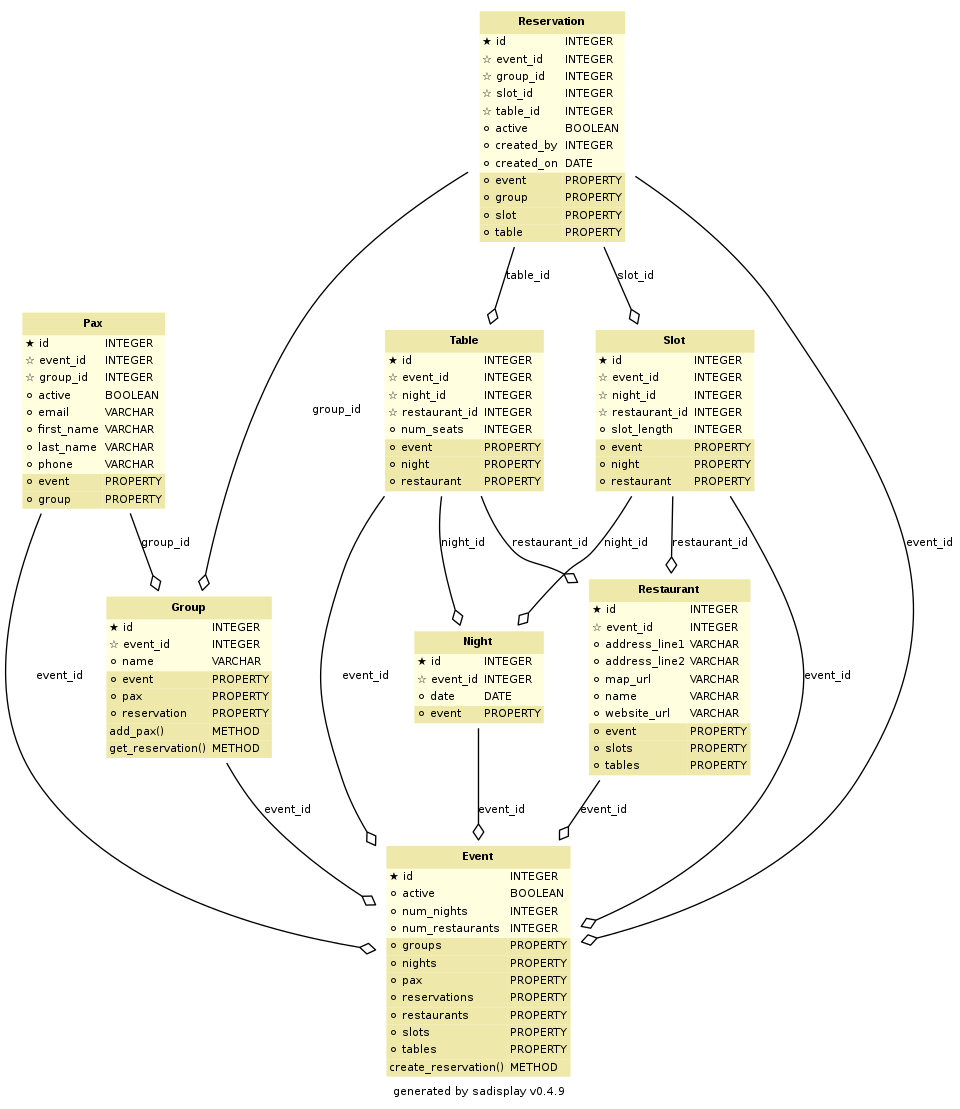
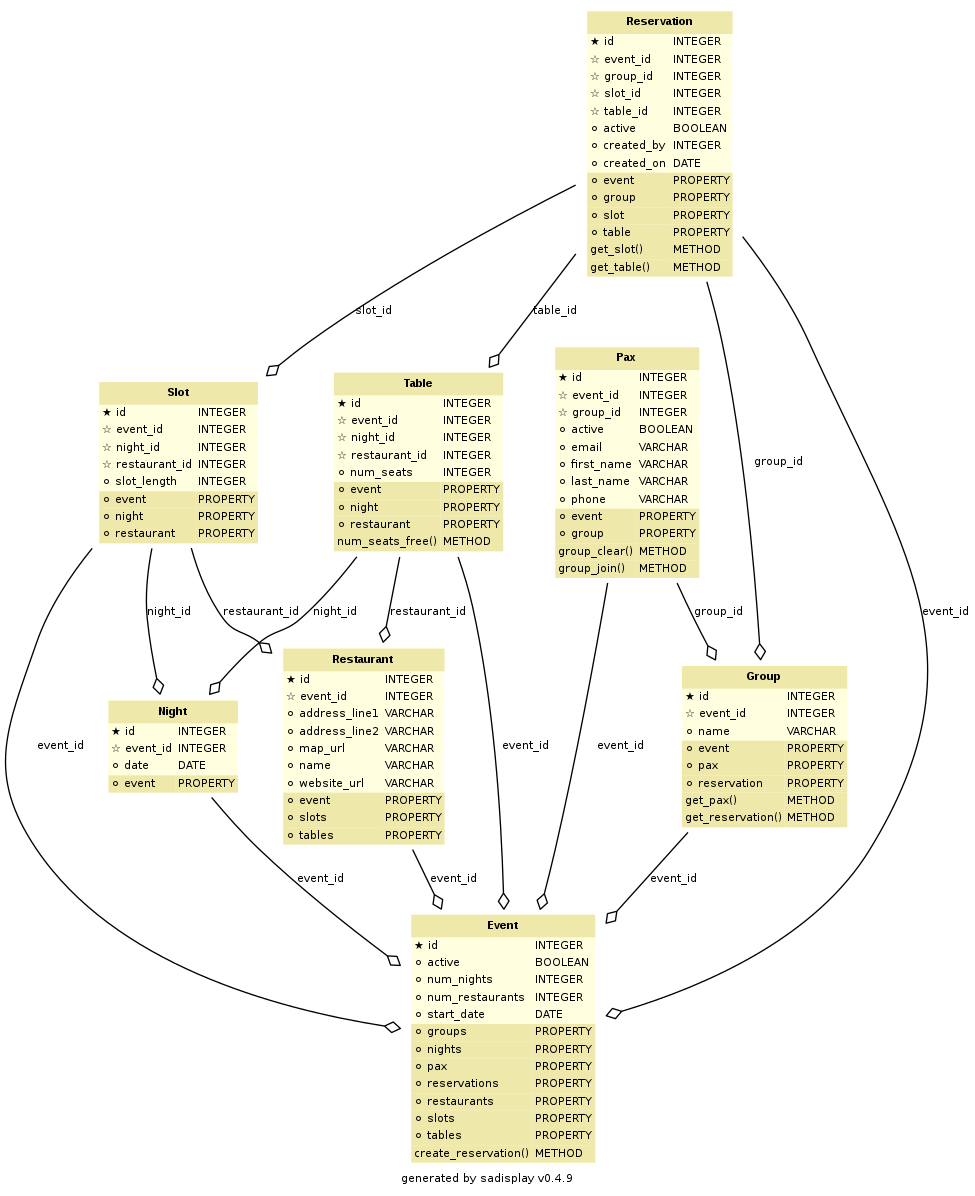
Large amount of bug fixes after testing & adding basic functions
Updated schema_graph.png to reflect draft of core methods.

diff --git a/table.py b/table.py
@@ -1,7 +1,11 @@
 from sqlalchemy import Column, String, Integer, ForeignKey
 from sqlalchemy.orm import relationship, backref
 
-from base import Base
+#from base import Base
+#below imports & queries will need to be moved to a separate file
+
+from base import Session, engine, Base
+from reservation import Reservation
 
 
 class Table(Base):
@@ -10,11 +14,11 @@ class Table(Base):
     id = Column(Integer, primary_key=True)
 
     event_id = Column(Integer, ForeignKey('events.id'))
-    event = relationship("Event", back_populates="tables")
+    event = relationship("Event", back_populates="tables", uselist=False)
 
     # These tables belong to the restaurant
     restaurant_id = Column(Integer, ForeignKey('restaurant.id'))  # A table belong to one restaurant
-    restaurant = relationship("Restaurant", back_populates="tables")
+    restaurant = relationship("Restaurant", back_populates="tables", uselist=False)
 
     # Every night a new restaurant table object
     night_id = Column(Integer, ForeignKey('night.id'))
@@ -40,3 +44,25 @@ class Table(Base):
         self.restaurant = restaurant
         self.num_seats = num_seats
         self.night = night
+
+    def num_seats_free(self, slot):
+        """
+
+        :type slot: object
+        """
+        # Ensure table and slot occur on the same night of the event
+        assert (slot.night_id == self.night_id)
+
+        Base.metadata.create_all(engine)
+        session = Session()
+        # Get every reservation 
+        my_reservations = session.query(Reservation).\
+            filter(Reservation.table_id == self.id).\
+            filter(Reservation.slot_id == slot.id).\
+            all()
+
+        pax_sum = sum(len(group) for group in my_reservations)
+
+        session.close()
+
+        return self.num_seats - pax_sum

diff --git a/event.py b/event.py
@@ -1,6 +1,6 @@
 from datetime import date
 
-from sqlalchemy import Column, String, Integer, ForeignKey, Boolean
+from sqlalchemy import Column, String, Integer, ForeignKey, Date, Boolean
 from sqlalchemy.orm import relationship
 
 from base import Base
@@ -11,15 +11,16 @@ class Event(Base):
 
     id = Column(Integer, primary_key=True)
 
-    pax = relationship("Pax", back_populates="event", uselist=False)
-    groups = relationship("Group", back_populates="event", uselist=False)
+    pax = relationship("Pax", back_populates="event")
+    groups = relationship("Group", back_populates="event")
     
-    nights = relationship("Night", back_populates="event", uselist=False)
-    tables = relationship("Table", back_populates="event", uselist=False)
-    slots = relationship("Slot", back_populates="event", uselist=False)
-    reservations = relationship("Reservation", back_populates="event", uselist=False)
+    nights = relationship("Night", back_populates="event")
+    tables = relationship("Table", back_populates="event")
+    slots = relationship("Slot", back_populates="event")
+    reservations = relationship("Reservation", back_populates="event")
 
-    restaurants = relationship("Restaurant", back_populates="event", uselist=False)
+    restaurants = relationship("Restaurant", back_populates="event")
+    start_date = Column(Date)
     num_nights = Column(Integer)
     num_restaurants = Column(Integer)
     active = Column(Boolean)
@@ -50,6 +51,8 @@ class Event(Base):
         # If a reservation already exists, we can't make a new one here.
         if group.get_reservation():
             return False
+
+        
 
         reservation = Reservation(self, group, table, slot, 
             date(2018, 7, 26), 1, True)

diff --git a/pax.py b/pax.py
@@ -10,18 +10,16 @@ class Pax(Base):
     id = Column(Integer, primary_key=True)
 
     event_id = Column(Integer, ForeignKey('events.id'))
-    event = relationship("Event", back_populates="pax")
+    event = relationship("Event", back_populates="pax", uselist=False)
 
     group_id = Column(Integer, ForeignKey('group.id'))
-    group = relationship("Group", back_populates="pax")
+    group = relationship("Group", back_populates="pax", uselist=False)
 
     first_name = Column(String)
     last_name = Column(String)
     email = Column(String)
     phone = Column(String)
     active = Column(Boolean)
-
-    group = relationship("Group", back_populates="pax")
 
     def __init__(self, event, first_name, last_name, email, phone):
         """
@@ -37,3 +35,18 @@ class Pax(Base):
         self.last_name = last_name
         self.email = email
         self.phone = phone
+        self.active = True
+
+    def __str__(self):
+        return 'ID {0}: {1} {2} - {3} - Group: {4}'.format(self.id, self.first_name, self.last_name, self.email, self.group_id)
+
+    def group_join(self, group):
+        """
+
+        :type group: object
+        """
+        assert isinstance(group, object)
+        self.group_id = group.id
+
+    def group_clear(self):
+        self.group_id = None

diff --git a/restaurant.py b/restaurant.py
@@ -10,14 +10,15 @@ class Restaurant(Base):
     id = Column(Integer, primary_key=True)
 
     event_id = Column(Integer, ForeignKey('events.id'))
-    event = relationship("Event", back_populates="restaurants")
+    event = relationship("Event", back_populates="restaurants", uselist=False)
 
-    tables = relationship("Table", back_populates="restaurant", uselist=False)
-    slots = relationship("Slot", back_populates="restaurant", uselist=False)
+    tables = relationship("Table", back_populates="restaurant")
+    slots = relationship("Slot", back_populates="restaurant")
 
     name = Column(String)
     address_line1 = Column(String)
     address_line2 = Column(String)
+    #phone = Column (String)
     website_url = Column(String)
     map_url = Column(String)
     
@@ -35,3 +36,5 @@ class Restaurant(Base):
         assert not (not isinstance(name, str) and not isinstance(name, bytes))
         self.name = name
 
+    def __str__(self):
+        return 'ID {0}: {1} {2} - Total tables: {3}'.format(self.id, self.name, self.phone, self.tables)

diff --git a/group.py b/group.py
@@ -10,10 +10,10 @@ class Group(Base):
 	id = Column(Integer, primary_key=True)
 
 	event_id = Column(Integer, ForeignKey('events.id'))
-	event = relationship("Event", back_populates='groups')
+	event = relationship("Event", back_populates='groups', uselist=False)
 
 	# Each pax can only belong to one group
-	pax = relationship("Pax", back_populates='group', uselist=False)
+	pax = relationship("Pax", back_populates='group')
 
 	# Each group can only have one reservation
 	reservation = relationship("Reservation", back_populates="group", uselist=False)
@@ -34,16 +34,15 @@ class Group(Base):
 		self.name = name
 
 
-	#def __len__(self):
-
-	def add_pax(self, pax):
-		"""
-
-        :type pax: object
-        """
-		assert isinstance(pax, object)
-		self.pax.append(pax)
+	def __len__(self):
+		if self.pax is None:
+			return 0
+		else:
+			return len(self.pax)
 
 	def get_reservation(self):
 		# Returns False if there is no reservation related to this group
 		return self.reservation
+
+	def get_pax(self):
+		return self.pax

diff --git a/scratch-test.py b/scratch-test.py
@@ -1,0 +1,41 @@
+from event import Event
+from base import Session, engine, Base
+from pax import Pax
+from group import Group
+from reservation import Reservation
+from restaurant import Restaurant
+from table import Table
+from slot import Slot
+from night import Night
+
+Base.metadata.create_all(engine)
+
+session = Session()
+
+group = session.query(Group).filter(Group.id == 2).one()
+user = session.query(Pax).filter(Pax.id == 4).one()
+
+print (user)
+
+reservation = group.get_reservation()
+
+table = reservation.get_table()
+slot = reservation.get_slot()
+
+print (str(table.num_seats_free(slot)))
+
+user.group_join(group)
+
+session.commit()
+
+print (user)
+
+#print (str(len(group)))
+
+print (str(len(group)))
+
+print (str(table.num_seats_free(slot)))
+
+print (*group.get_pax(), sep='\n')
+
+session.close()

diff --git a/slot.py b/slot.py
@@ -10,13 +10,13 @@ class Slot(Base):
     id = Column(Integer, primary_key=True)
 
     event_id = Column(Integer, ForeignKey('events.id'))
-    event = relationship("Event", back_populates="slots")
+    event = relationship("Event", back_populates="slots", uselist=False)
 
     restaurant_id = Column(Integer, ForeignKey('restaurant.id'))  # Each restaurant has its own time slots
-    restaurant = relationship("Restaurant", back_populates="slots")
+    restaurant = relationship("Restaurant", back_populates="slots", uselist=False)
 
     night_id = Column(Integer, ForeignKey('night.id'))  # Time slots are one night only
-    night = relationship("Night")
+    night = relationship("Night", uselist=False)
 
     slot_length = Column(Integer)  # Length of time of slot in minutes
 

diff --git a/reservation.py b/reservation.py
@@ -10,8 +10,9 @@ class Reservation(Base):
     id = Column(Integer, primary_key=True)
 
     event_id = Column(Integer, ForeignKey('events.id'))
-    event = relationship("Event", back_populates="reservations")
+    event = relationship("Event", back_populates="reservations", uselist=False)
 
+    # One group per reservation
     group_id = Column(Integer, ForeignKey('group.id'))
     group = relationship("Group", back_populates="reservation", uselist=False)
 
@@ -43,6 +44,15 @@ class Reservation(Base):
         self.created_on = created_on
         self.created_by = created_by
         self.active = active
+
+    def __len__(self):
+        return len(self.group)
+
+    def get_table(self):
+        return self.table
+
+    def get_slot(self):
+        return self.slot
 
 
 

diff --git a/night.py b/night.py
@@ -10,7 +10,7 @@ class Night(Base):
     id = Column(Integer, primary_key=True)
 
     event_id = Column(Integer, ForeignKey('events.id'))
-    event = relationship("Event", back_populates="nights")
+    event = relationship("Event", back_populates="nights", uselist=False)
 
     date = Column(Date) # Simplified date handling as we handle only a few consecutive nights.
                         # Each night has its own restaurant tables and time slots.

diff --git a/inserts.py b/inserts.py
@@ -10,8 +10,6 @@ from table import Table
 from slot import Slot
 from night import Night
 
-from datetime import date
-
 Base.metadata.create_all(engine)
 
 session = Session()
